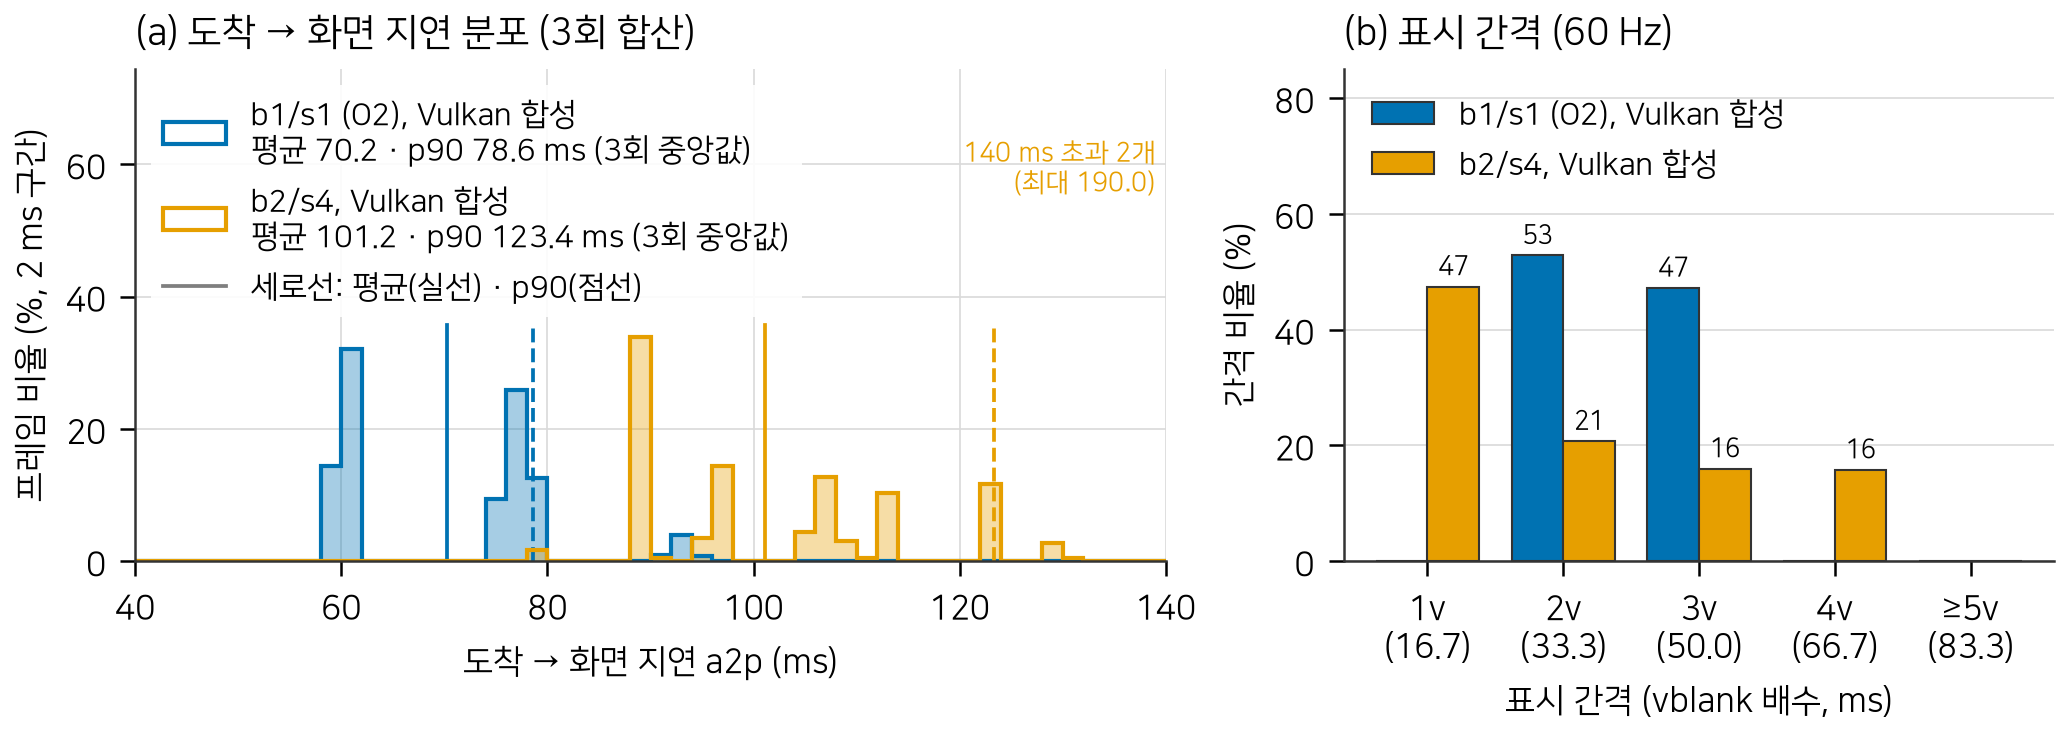
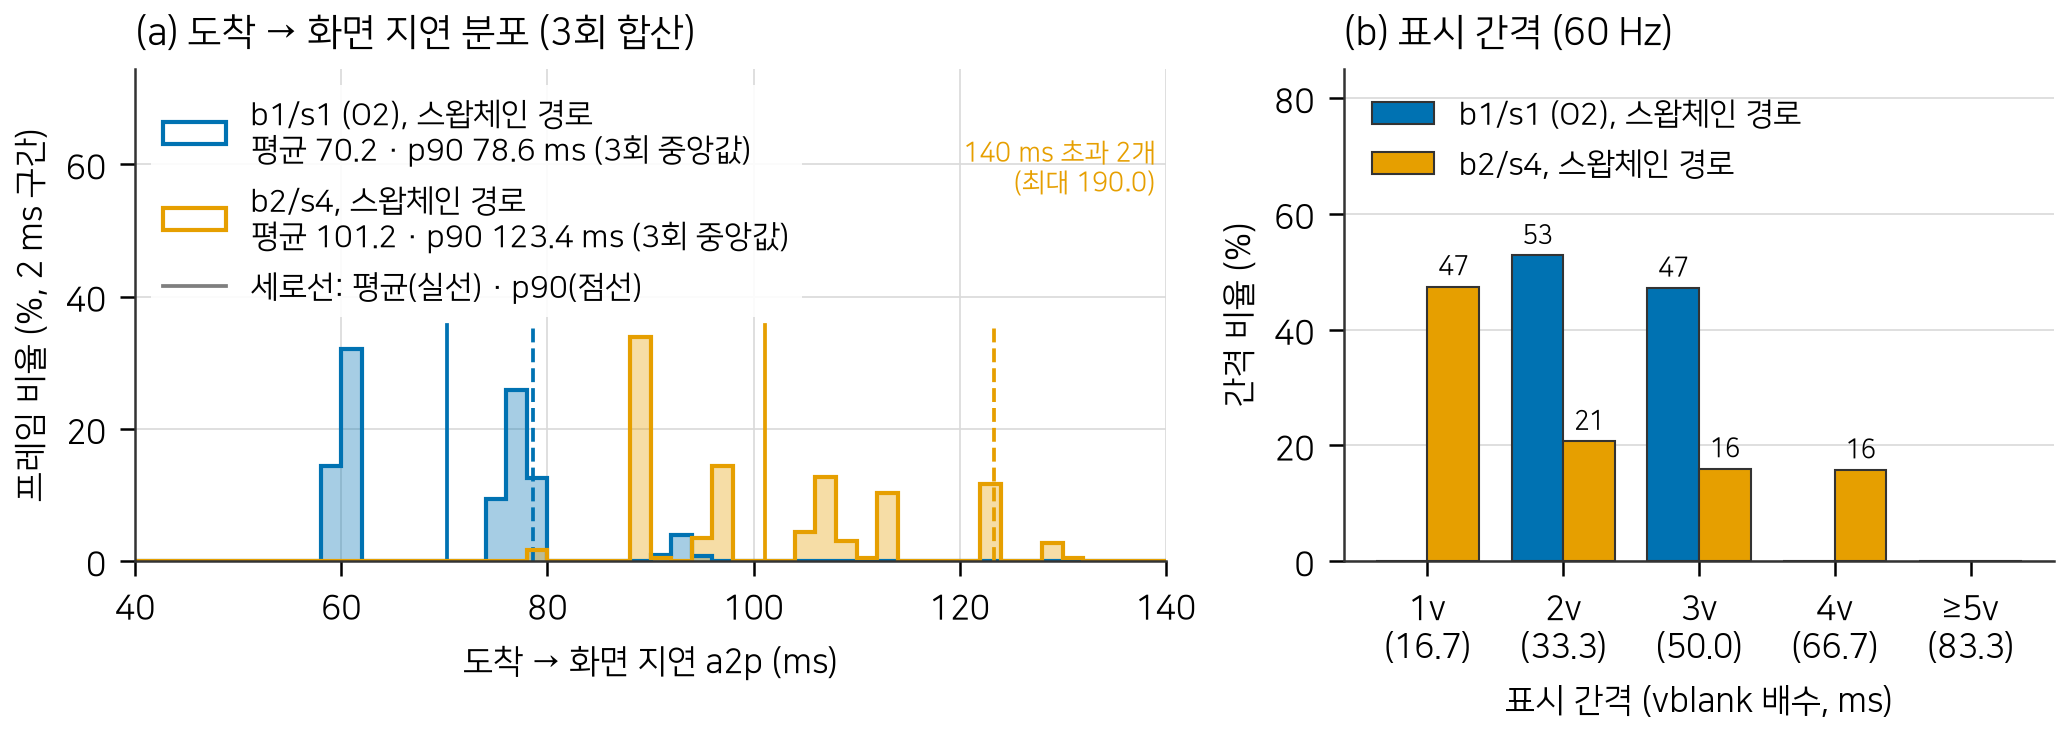
bench/paper: 재측정 준비 — 샘플러 CPU 주파수 기록, 벤치 거버너 기록, 그림 7 범례 "스왑체인 경로"
- 06_tools/python/sys_cpu_window.py: 스냅샷 A·B 에서 cpufreq policy*/stats/time_in_state·scaling_governor·scaling_cur_freq 를
  읽어 JSON 에 cpufreq(policy별 창 평균 MHz·증가분)·cpufreq_avg_mhz·cpufreq_governor·cpufreq_error 추가.
  기존 JSON 키 순서와 CSV 9열 불변(display_bench.sh 70열 그대로). 경계 사례(증가 0·리셋·파일 없음) null + 사유
- 06_tools/bench/display_bench.sh: env_bench.txt 에 cpufreq policy 별 거버너·현재 주파수 한 줄
- 그림 7: 범례 라벨 "Vulkan 합성" → "스왑체인 경로"(데이터 불변, 재생성), 캡션 병기 삭제, 등록부 용어 통일

Claude-Session: https://claude.ai/code/session_01UJi8CxmzgcP5FEorqrqyve

Changed region(s): [[0.7435, 0.1202, 0.8674, 0.2404], [0.1859, 0.1202, 0.2788, 0.1803], [0.1549, 0.2404, 0.2478, 0.3005]]

diff --git a/06_tools/python/sys_cpu_window.py b/06_tools/python/sys_cpu_window.py
@@ -36,6 +36,10 @@ Notes on the numbers:
     resolution is one tick (10 ms at clk_tck 100) per process.
   - A process that starts and exits inside the window is in neither snapshot, so it is in no class. Its CPU is
     visible as unattributed_ms (sys_busy_ms minus the classes) and, once reaped, in reaped_children_ms.
+  - cpufreq.<policyN> = {governor_a/_b, cur_khz_a/_b, avg_mhz, time_in_state_delta {kHz: ms}} from sysfs cpufreq
+    (avg_mhz = time-weighted mean of the window's time_in_state growth, null + avg_mhz_null_reason if that growth is
+    0); cpufreq_avg_mhz = CPU-time-weighted mean over policies, cpufreq_governor = the governor ("mixed" if not one),
+    cpufreq_error = null, or why the values are null/incomplete. time_in_state resolution is one clock_t (10 ms).
 """
 
 from __future__ import annotations
@@ -58,6 +62,7 @@ BUSY_COLS = ("user", "nice", "system", "irq", "softirq", "steal")
 SCHEDSTAT_VERSION = 17
 KTHREAD_GROUPS = (("kworker", "kworker*"), ("ksoftirqd", "ksoftirqd*"), ("irq_thread", "irq/*"),
                   ("v3d", "v3d*"), ("hailo", "hailo*"))
+CPUFREQ_DIR = Path("/sys/devices/system/cpu/cpufreq")
 TOP_N_PROCS = 10
 TOP_N_IRQS = 15
 MAX_LISTED = 50
@@ -89,6 +94,17 @@ class Snapshot:
     sched_run_ns: dict[str, int]
     interrupts: dict[str, tuple[str, int]]  # label -> (description, sum over CPUs)
     procs: dict[int, Proc] = field(default_factory=dict)
+    cpufreq: dict[str, CpufreqPolicy] = field(default_factory=dict)  # "policy0" -> state
+    cpufreq_error: str | None = None  # set when the cpufreq directory is missing or unreadable
+
+
+@dataclass
+class CpufreqPolicy:
+    governor: str | None
+    cur_khz: int | None
+    ncpus: int  # CPUs in affected_cpus (1 if unreadable); weight of the policy in cpufreq_avg_mhz
+    time_in_state: dict[int, int] | None  # kHz -> clock_t ticks since boot; None if stats are unavailable
+    errors: list[str] = field(default_factory=list)
 
 
 class Stop(Exception):
@@ -189,15 +205,55 @@ def _read_procs() -> dict[int, Proc]:
     return procs
 
 
+def _read_cpufreq_policy(d: Path) -> CpufreqPolicy:
+    """One cpufreq policy directory. Every file is optional: a failed read leaves None and a note in errors."""
+    pol = CpufreqPolicy(governor=None, cur_khz=None, ncpus=1, time_in_state=None)
+    try:
+        pol.governor = (d / "scaling_governor").read_text(encoding="utf-8").strip()
+    except OSError as e:
+        pol.errors.append(f"scaling_governor: {e.strerror or e}")
+    try:
+        pol.cur_khz = int((d / "scaling_cur_freq").read_text(encoding="utf-8").split()[0])
+    except (OSError, ValueError, IndexError) as e:
+        pol.errors.append(f"scaling_cur_freq: {getattr(e, 'strerror', None) or e}")
+    try:
+        pol.ncpus = max(1, len((d / "affected_cpus").read_text(encoding="utf-8").split()))
+    except OSError:
+        pass  # weight 1; only matters with several policies
+    try:
+        tis: dict[int, int] = {}
+        for line in (d / "stats" / "time_in_state").read_text(encoding="utf-8").splitlines():
+            parts = line.split()
+            if len(parts) >= 2:
+                tis[int(parts[0])] = int(parts[1])
+        pol.time_in_state = tis
+    except (OSError, ValueError) as e:
+        pol.errors.append(f"stats/time_in_state: {getattr(e, 'strerror', None) or e}")
+    return pol
+
+
+def read_cpufreq() -> tuple[dict[str, CpufreqPolicy], str | None]:
+    """All cpufreq policies (sorted by number), or ({}, reason) when there are none."""
+    try:
+        dirs = [d for d in CPUFREQ_DIR.glob("policy*") if d.name[6:].isdigit()]
+    except OSError as e:
+        return {}, f"{CPUFREQ_DIR}: {e.strerror or e}"
+    if not dirs:
+        return {}, f"no {CPUFREQ_DIR}/policy* directories"
+    dirs.sort(key=lambda d: int(d.name[6:]))
+    return {d.name: _read_cpufreq_policy(d) for d in dirs}, None
+
+
 def take_snapshot() -> Snapshot:
     t0 = time.perf_counter()
     t_ns = time.monotonic_ns()
     stat_lines = _parse_stat(_read("/proc/stat"))
+    cpufreq, cpufreq_error = read_cpufreq()
     version, run = _parse_schedstat(_read("/proc/schedstat"))
     irqs = _parse_interrupts(_read("/proc/interrupts"))
     procs = _read_procs()
     took_ms = (time.perf_counter() - t0) * 1e3
-    return Snapshot(t_ns, took_ms, stat_lines, version, run, irqs, procs)
+    return Snapshot(t_ns, took_ms, stat_lines, version, run, irqs, procs, cpufreq, cpufreq_error)
 
 
 def _kthread_group(comm: str) -> str:
@@ -214,6 +270,55 @@ def _top(items: list[dict], n: int) -> list[dict]:
 
 def _round(x: float) -> float:
     return round(x, 3)
+
+
+def diff_cpufreq(a: Snapshot, b: Snapshot, clk_tck: int) -> dict:
+    """cpufreq, cpufreq_avg_mhz, cpufreq_governor, cpufreq_error for the window A..B. Never raises."""
+    tick_ms = 1e3 / clk_tck
+    errors = [f"{w}: {e}" for w, e in (("A", a.cpufreq_error), ("B", b.cpufreq_error)) if e]
+    policies: dict[str, dict] = {}
+    governors: set[str | None] = set()
+    wsum = 0.0  # sum over policies of kHz * ms * ncpus
+    wt = 0.0  # sum over policies of ms * ncpus
+    for name in sorted(set(a.cpufreq) | set(b.cpufreq), key=lambda n: int(n[6:])):
+        pa, pb = a.cpufreq.get(name), b.cpufreq.get(name)
+        if pa is None or pb is None:
+            errors.append(f"{name}: only in snapshot {'A' if pb is None else 'B'}")
+            continue
+        errors.extend(f"{name} {w}: {e}" for w, p in (("A", pa), ("B", pb)) for e in p.errors)
+        governors.update((pa.governor, pb.governor))
+        pol: dict = {"governor_a": pa.governor, "governor_b": pb.governor,
+                     "cur_khz_a": pa.cur_khz, "cur_khz_b": pb.cur_khz,
+                     "avg_mhz": None, "time_in_state_delta": None}
+        reason = None
+        if pa.time_in_state is None or pb.time_in_state is None:
+            reason = "stats/time_in_state unreadable"
+        else:
+            delta = {k: pb.time_in_state.get(k, 0) - pa.time_in_state.get(k, 0)
+                     for k in sorted(set(pa.time_in_state) | set(pb.time_in_state))}
+            pol["time_in_state_delta"] = {str(k): _round(v * tick_ms) for k, v in delta.items()}
+            total = sum(delta.values())
+            if any(v < 0 for v in delta.values()):
+                reason = "time_in_state went backwards (stats reset during the window?)"
+            elif total == 0:
+                reason = f"time_in_state grew by 0 (window shorter than its {tick_ms:g} ms resolution?)"
+            else:
+                pol["avg_mhz"] = _round(sum(k * v for k, v in delta.items()) / total / 1e3)
+                wsum += sum(k * v for k, v in delta.items()) * tick_ms * pb.ncpus
+                wt += total * tick_ms * pb.ncpus
+        if reason:
+            pol["avg_mhz_null_reason"] = reason
+        policies[name] = pol
+    avg = _round(wsum / wt / 1e3) if wt > 0 else None
+    if avg is None and policies and not errors:
+        errors.append("no policy has a usable time_in_state delta (see cpufreq.<policy>.avg_mhz_null_reason)")
+    governors.discard(None)
+    return {
+        "cpufreq": policies or None,
+        "cpufreq_avg_mhz": avg,
+        "cpufreq_governor": (governors.pop() if len(governors) == 1 else "mixed") if governors else None,
+        "cpufreq_error": "; ".join(errors) if errors else None,
+    }
 
 
 def diff_snapshots(a: Snapshot, b: Snapshot, clk_tck: int, app_comm: str) -> tuple[dict, list[str]]:
@@ -327,6 +432,9 @@ def diff_snapshots(a: Snapshot, b: Snapshot, clk_tck: int, app_comm: str) -> tup
     irq_items.sort(key=lambda d: d["count"], reverse=True)
     res["interrupts"] = {"total": total, "top": irq_items[:TOP_N_IRQS]}
     res["irq_count"] = total
+
+    # sysfs cpufreq (appended last so the existing keys keep their order)
+    res.update(diff_cpufreq(a, b, clk_tck))
     return res, warnings
 
 

diff --git a/06_tools/python/paper/fig07_arrival_to_present.py b/06_tools/python/paper/fig07_arrival_to_present.py
@@ -33,8 +33,8 @@ import frame_log_stats as fls  # noqa: E402
 STEM = "fig07_arrival_to_present"
 RUN_DIR = ps.RESULTS / "input_pacing" / "runs" / "code_2f2d3d0_display_on"
 RAW_CSV = RUN_DIR / "results_raw.csv"
-CONFIGS = (("dvk_b1s1", "b1/s1 (O2), Vulkan 합성", ps.PALETTE[0]),
-           ("dvk_b2s4", "b2/s4, Vulkan 합성", ps.PALETTE[1]))
+CONFIGS = (("dvk_b1s1", "b1/s1 (O2), 스왑체인 경로", ps.PALETTE[0]),
+           ("dvk_b2s4", "b2/s4, 스왑체인 경로", ps.PALETTE[1]))
 RUNS = (1, 2, 3)
 WARMUP_PRESENTS = 30
 DRAIN_ROWS = 3

diff --git a/10_paper/figures/README.md b/10_paper/figures/README.md
@@ -15,7 +15,7 @@
 | 2 | `fig02_npu_context_cost.{svg,png}` | `06_tools/python/paper/fig02_npu_context_cost.py` | `07_results/hef_context_profile/evidence/context_layers.json`, `07_results/hef_context_profile/evidence/breakdown.json` | (a) HEF 메타데이터 분석(장치 미사용, `06_tools/python/hef_context_layers.py`), fw-actions `raw/b1_run1`로 교차 확인 (b) Gen3 x1, `hailortcli run2 measure-fw-actions`, B = 1·2·8 × 3회. JSON fps 미사용 | §3.3 제약 2 |
 | 4 | `fig04_op_point_grid.{svg,png}` | `06_tools/python/paper/fig04_op_point_grid.py` | `07_results/op_point/runs/grid_gpu_postproc/results.csv` | 신(디코더 스레드는 빌드 시각 근거), 표시 off, Gen3 x1, 900f × 3 | §6.6.1 (4) |
 | 5 | `fig05_input_queue.{svg,png}` | `06_tools/python/paper/fig05_input_queue.py` | `07_results/input_pacing/runs/code_2f2d3d0/results_raw.csv` | 신, 코드 `2f2d3d0`(2026-10-16), 표시 off, `--input-pace source`, 900 도착 × 3 | §6.6.3 (2) |
-| 7 | `fig07_arrival_to_present.{svg,png}` | `06_tools/python/paper/fig07_arrival_to_present.py` | `07_results/input_pacing/runs/code_2f2d3d0_display_on/raw/dvk_{b1s1,b2s4}_run*/frame_log.csv`, `07_results/input_pacing/runs/code_2f2d3d0_display_on/results_raw.csv` | 신, 코드 `2f2d3d0`(2026-10-16), 표시 on(Vulkan 합성) 1080p60, 페이싱 큐 1, 900 도착 × 3 | §6.6.3 (6) |
+| 7 | `fig07_arrival_to_present.{svg,png}` | `06_tools/python/paper/fig07_arrival_to_present.py` | `07_results/input_pacing/runs/code_2f2d3d0_display_on/raw/dvk_{b1s1,b2s4}_run*/frame_log.csv`, `07_results/input_pacing/runs/code_2f2d3d0_display_on/results_raw.csv` | 신, 코드 `2f2d3d0`(2026-10-16), 표시 on(스왑체인 경로) 1080p60, 페이싱 큐 1, 900 도착 × 3 | §6.6.3 (6) |
 | 8 | `fig08_display_paths.{svg,png}` | `06_tools/python/paper/fig08_display_paths.py` | `07_results/display_planes_e2e/runs/slots6/results.csv` | 신, 표시 on 1080p60, b2/s6, `--display-pace source`, 900f × 3 | §6.7.1 (2) |
 | 9 | `fig09_thermal_soak.{svg,png}` | `06_tools/python/paper/fig09_thermal_soak.py` | `07_results/thermal_soak/evidence/soak_{b2s4,b8s16}.csv`, `07_results/thermal_soak/evidence/soak_{b2s4,b8s16}_events.txt` | 신, 표시 off, MOT20-05 반복, 추가 냉각 없음, 40분 × 1회 | §7.4 (1) |
 

diff --git a/10_paper/paper_ko.md b/10_paper/paper_ko.md
@@ -1091,7 +1091,7 @@ N이 효과가 없고, 처리가 소스보다 느린 배치 1/슬롯 1에서는 
 
 ![그림 7. 도착 → 화면 지연 분포와 표시 간격](figures/fig07_arrival_to_present.svg)
 
-**그림 7.** 도착 → 화면 지연 분포와 표시 간격(스왑체인 경로, 그림 범례의 "Vulkan 합성"). 히스토그램과 (b)는 3회를 프레임 단위로 합산했고, 실행마다 앞 30회 표시(워밍업)와
+**그림 7.** 도착 → 화면 지연 분포와 표시 간격(스왑체인 경로). 히스토그램과 (b)는 3회를 프레임 단위로 합산했고, 실행마다 앞 30회 표시(워밍업)와
 마지막 3개 도착(실행 끝 비우기)을 뺐다. 범례의 평균·p90과 세로선은 위 표와 같은 실행별 값의 3회 중앙값이다. 배치 1/슬롯 1은 표시 간격이
 2·3 수직동기 두 값으로 갈리고, 배치 2/슬롯 4는 짝을 연속 수직동기에 올린 뒤 쉰다(측정: 2026-10-16, 코드 `2f2d3d0`, GPU 1150 MHz, 디코더 1스레드, GPU 억제,
 `--input-pace source --input-queue 1`, HDMI 1920×1080 60 Hz, 도착 900프레임 × 반복 3, 원본: `07_results/input_pacing/runs/code_2f2d3d0_display_on/`).
